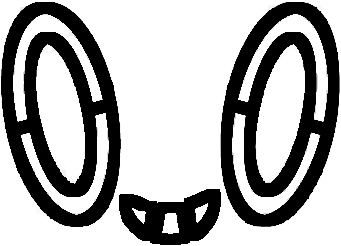
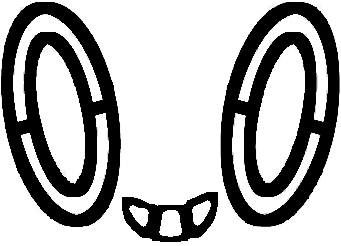
feat(ui): enlarge Rotom and restore the Compare arrows
Rotom reads small beside the other tab glyphs, and its mouth was heavier than the eyes.

Changed region(s): [[0.3519, 0.7683, 0.6452, 0.9959], [0.3812, 0.939, 0.4106, 0.9675]]

diff --git a/src/components/__tests__/navIconArt.test.ts b/src/components/__tests__/navIconArt.test.ts
@@ -16,6 +16,86 @@ async function contentFill(name: string): Promise<{ width: number; height: numbe
   };
 }
 
+/** Eyes are the two tall side shapes. The mouth is the lower center shape. */
+async function rotomParts(name: string): Promise<{
+  eyes: { pixels: number }[];
+  eyeMedianRun: number;
+  mouth: { pixels: number; medianRun: number };
+}> {
+  const { data, info } = await sharp(path.join(navDir, name))
+    .ensureAlpha()
+    .raw()
+    .toBuffer({ resolveWithObject: true });
+  const width = info.width;
+  const height = info.height;
+  const on = (x: number, y: number) => data[(y * width + x) * 4 + 3] > 40;
+  const seen = new Uint8Array(width * height);
+  const labels = new Int16Array(width * height);
+  const components: { id: number; pixels: number; minX: number; maxX: number; minY: number }[] = [];
+  for (let y = 0; y < height; y++) {
+    for (let x = 0; x < width; x++) {
+      const start = y * width + x;
+      if (!on(x, y) || seen[start]) continue;
+      const id = components.length + 1;
+      let pixels = 0;
+      let minX = x;
+      let maxX = x;
+      let minY = y;
+      const queue = [start];
+      seen[start] = 1;
+      labels[start] = id;
+      while (queue.length) {
+        const here = queue.pop()!;
+        const px = here % width;
+        const py = (here / width) | 0;
+        pixels++;
+        if (px < minX) minX = px;
+        if (px > maxX) maxX = px;
+        if (py < minY) minY = py;
+        for (const [dx, dy] of [
+          [1, 0],
+          [-1, 0],
+          [0, 1],
+          [0, -1],
+        ] as const) {
+          const nx = px + dx;
+          const ny = py + dy;
+          if (nx < 0 || ny < 0 || nx >= width || ny >= height) continue;
+          const next = ny * width + nx;
+          if (seen[next] || !on(nx, ny)) continue;
+          seen[next] = 1;
+          labels[next] = id;
+          queue.push(next);
+        }
+      }
+      components.push({ id, pixels, minX, maxX, minY });
+    }
+  }
+  const medianRun = (id: number) => {
+    const runs: number[] = [];
+    for (let y = 0; y < height; y++) {
+      let run = 0;
+      for (let x = 0; x < width; x++) {
+        if (labels[y * width + x] === id) run++;
+        else if (run > 2) {
+          runs.push(run);
+          run = 0;
+        } else run = 0;
+      }
+      if (run > 2) runs.push(run);
+    }
+    runs.sort((a, b) => a - b);
+    return runs[Math.floor(runs.length / 2)] ?? 0;
+  };
+  const eyes = components.filter((part) => part.minY < 40);
+  const mouth = components.filter((part) => part.minY >= 40).sort((a, b) => b.pixels - a.pixels)[0];
+  return {
+    eyes: eyes.map((eye) => ({ pixels: eye.pixels })),
+    eyeMedianRun: Math.min(...eyes.map((eye) => medianRun(eye.id))),
+    mouth: { pixels: mouth?.pixels ?? 0, medianRun: mouth ? medianRun(mouth.id) : 0 },
+  };
+}
+
 describe("tab silhouette art", () => {
   it("crops Lucario and Pikachu tight so they fill the slot the way Leftovers does", async () => {
     const leftovers = await contentFill("leftovers_icon_outline.png");
@@ -33,5 +113,12 @@ describe("tab silhouette art", () => {
     const face = await contentFill("rotomface_icon_outline.png");
     expect(face.width).toBeGreaterThan(0.85);
     expect(face.height).toBeGreaterThan(0.9);
+  });
+
+  it("keeps the Rotom mouth no thicker than the eyes", async () => {
+    const parts = await rotomParts("rotomface_icon_outline.png");
+    expect(parts.eyes.map((eye) => eye.pixels).sort((a, b) => a - b)).toEqual([12117, 12158]);
+    expect(parts.mouth.pixels).toBeGreaterThan(1500);
+    expect(parts.mouth.medianRun).toBeLessThanOrEqual(parts.eyeMedianRun + 2);
   });
 });

diff --git a/src/components/__tests__/tabBar.test.ts b/src/components/__tests__/tabBar.test.ts
@@ -178,7 +178,7 @@ describe("TabBar Advanced slots", () => {
     expect(html).toMatch(/aria-selected="true"[^>]*>[\s\S]*Optimize/);
   });
 
-  it("draws Lucario at 29px, Leftovers at 27px, the other silhouettes at 26px, and Compare at 23px", () => {
+  it("draws Lucario at 29px, Leftovers at 27px, Rotom at 28px, Pikachu at 26px, and Compare at 24px", () => {
     const html = renderToStaticMarkup(
       createElement(TabBar, {
         active: "optimize",
@@ -189,10 +189,9 @@ describe("TabBar Advanced slots", () => {
     );
     expect(silhouetteBox(html, "lucario_icon_outline")).toBe("h-[29px] w-[29px]");
     expect(silhouetteBox(html, "leftovers_icon_outline")).toBe("h-[27px] w-[27px]");
-    for (const file of ["rotomface_icon_outline", "pikachu_icon_outline"]) {
-      expect(silhouetteBox(html, file)).toBe("h-[26px] w-[26px]");
-    }
-    expect(html).toMatch(/<svg[^>]*class="h-\[23px\] w-\[23px\]"/);
+    expect(silhouetteBox(html, "rotomface_icon_outline")).toBe("h-[28px] w-[28px]");
+    expect(silhouetteBox(html, "pikachu_icon_outline")).toBe("h-[26px] w-[26px]");
+    expect(html).toMatch(/<svg[^>]*class="h-6 w-6"/);
     expect(
       html.match(/class="flex h-\[30px\] w-\[30px\] shrink-0 items-center justify-center"/g),
     ).toHaveLength(5);

diff --git a/src/components/shell/TabBar.tsx b/src/components/shell/TabBar.tsx
@@ -98,7 +98,7 @@ function SilhouetteIcon({ src, box = "h-[26px] w-[26px]" }: { src: string; box?:
 function CompareIcon() {
   return (
     <svg
-      className="h-[23px] w-[23px]"
+      className="h-6 w-6"
       viewBox="0 0 24 24"
       fill="none"
       stroke="currentColor"
@@ -117,7 +117,7 @@ function CompareIcon() {
 
 export const TAB_ICONS: Record<Tab, ReactNode> = {
   build: <SilhouetteIcon src={lucarioIcon} box="h-[29px] w-[29px]" />,
-  optimize: <SilhouetteIcon src={rotomFaceIcon} />,
+  optimize: <SilhouetteIcon src={rotomFaceIcon} box="h-[28px] w-[28px]" />,
   compare: <CompareIcon />,
   emblems: <SilhouetteIcon src={pikachuIcon} />,
   items: <SilhouetteIcon src={leftoversIcon} box="h-[27px] w-[27px]" />,

diff --git a/AGENTS.md b/AGENTS.md
@@ -129,7 +129,7 @@ Move Basic descriptions: `normalize.py` emits skill `description` / upgrade `des
 No router library — navigation is local React state.
 
 - **App bar** — fixed top bar (`AppBar` from `src/components/shell/`), quiet surface gradient in dark theme (`#1b1630 → #251f40` via `--color-appbar-*` tokens; light theme stays flat white), `pt-safe`. On the Builds and Optimize tabs: selected Pokémon cropped thumbnail (`iconAsset`, same crop as the picker grid), name, role badge, and attack type. Icon and name are separate tappable buttons — both open the Pokémon picker overlay. With no Pokémon selected, the leading slot shows a plus affordance (`.poke-picker-empty`, accent border and static glow); with a selection, the thumbnail uses `.poke-picker-selected` and a `--color-poke-picker-ring` border (`aria-label` **Select a Pokémon** vs **Change Pokémon**). The empty-state app-bar title reads **Select a Pokémon**; `PokemonPickerSheet` defaults its heading to **Choose a Pokémon**, and its role pill restores the last choice. When that empty Build screen is the restored tab, the shell fades in over 2s (`first-visit-fade` in `src/index.css`, class and duration from `src/ui/firstVisitFade.ts`). A saved Pokémon, any other restored tab, and reduced motion skip the fade. The class is chosen once on first paint, so choosing a Pokémon during the fade does not restart it, and picker-thumbnail warmup does not take part in that decision. On other tabs: static screen title ("Emblems", "Held Items", "Compare"). Single **Basic**/**Advanced** mode toggle (`ModeToggle` in `AppBar.tsx` — shows current mode, tap flips; color-coded via `--color-mode-*` tokens) and settings gear on all tabs. Role identity on the Build tab also comes from `ROLE_BAND` in `src/ui/theme.ts` (Hero Band surface + portrait ring; Stat Dock panel tint + ring).
-- **Tab bar** — fixed bottom navigation (`TabBar`): Builds · Items · Emblems, then Compare and Optimize. Builds, Items, Emblems, and Optimize are currentColor silhouette masks (Lucario, Leftovers, Pikachu, and a Rotom face) in `src/assets/nav/`; Compare is an unfilled stroke of the two arrows. Each glyph is centered in a shared 30px slot so the five labels share a baseline: Lucario 29px, Leftovers 27px, Pikachu and the Rotom face 26px, and the Compare arrows 23px. Idle and active ink come from `--color-tab-ink` and `--color-tab-active`. Compare and Optimize stay mounted; Basic collapses each column to flex-grow 0 (inert and clipped) and Advanced opens them to flex-grow 1. Entering Advanced, Compare's column and fade lead and Optimize follows 150ms later; leaving Advanced reverses that order. Switching from Advanced to Basic while on Compare or Optimize redirects to Builds.
+- **Tab bar** — fixed bottom navigation (`TabBar`): Builds · Items · Emblems, then Compare and Optimize. Builds, Items, Emblems, and Optimize are currentColor silhouette masks (Lucario, Leftovers, Pikachu, and a Rotom face) in `src/assets/nav/`; Compare is an unfilled stroke of the two arrows. Each glyph is centered in a shared 30px slot so the five labels share a baseline: Lucario 29px, Leftovers 27px, the Rotom face 28px, Pikachu 26px, and the Compare arrows 24px. The Rotom mouth stroke matches the eyes. Idle and active ink come from `--color-tab-ink` and `--color-tab-active`. Compare and Optimize stay mounted; Basic collapses each column to flex-grow 0 (inert and clipped) and Advanced opens them to flex-grow 1. Entering Advanced, Compare's column and fade lead and Optimize follows 150ms later; leaving Advanced reverses that order. Switching from Advanced to Basic while on Compare or Optimize redirects to Builds.
 - **Build screen** — `BuildScreen` composes `HeroBand` (role-tinted band: portrait, name/role/attack-type chips, level slider; empty state = "Choose your Pokémon" CTA; opens `PokemonPickerSheet` with local state), `RecommendPanel` (Recommended and Creative tabs; selecting a tab or variant auto-applies that preset; the last tab and variant index for the current Pokémon persist in `unite-build-optimizer.buildView.v1` and are restored when Build remounts without re-applying the preset; returns `null` when no Pokémon — HeroBand is the sole empty-state voice; phone kit stacks Final Moves, then Held Items + Battle Item, then Emblems (`BUILD_KIT_SECTION_CLASS`; `sm+` keeps Held → Moves → Battle → Emblems); kit Held Items, Battle Item, Final Moves, and Emblems open the tooltip popup on touch tap (`BUILD_KIT_TOOLTIP_TRIGGER` / `touchTrigger="tap"`; mouse hover unchanged); emblems via wrapping `EmblemCoinRow` coins plus `EmblemSetSummary` (Emblem Stats + Color Sets with `SetGlyph` chips, no CSS color dots); color identity uses mirrored `emblems/sets/<Color>.png` glyphs, no G/B/S/P grade-letter chips), `LoadoutBoard` (two default-open `CollapsibleCard`s, persistKeys `loadout-items` / `loadout-emblems`: **Items** — hint line for slot-tap (picker) and caption-tap (grade sheet); held/battle slot tiles → `PickerModal`, full-name slot captions (`{name} · {grade}`, two-line wrap) → grade `BottomSheet`; **My Builds** label + bookmark → `MyBuildsSheet` (Save/Load flash `Saved ✓` / `Loaded ✓`, highlight the row, announce via an `aria-live` status line; **Share build** uses `shareLink`; no `.json` files); **Emblems** — colored-arc `EmblemWheel` with a `?` hub chip (tap opens the Color-Set Guide; coins are `WHEEL_COIN_SIZE_PCT` of the dial so they scale on SE-class widths), action pills (**Copy emblem link** shares `#e=`; **Clear emblems**), `EquippedSets` in-game capsule rows (`EMBLEM_SET_UI_HEX` fill = count / top threshold with a 1s `motion-safe` width transition, `SetGlyph` + count, circular 2/4/6 or 3/5/7 pips; no color names; tap/click expands that color's current bonus via `equippedSetDetail` (no next-threshold line — hover tooltips are not used), and `EquippedStats` with a persisted **Flats** / **With sets** tablist (`unite-build-optimizer.equippedStats.v2` via `readEquippedStatsView`; missing or junk = Flats; With sets = `emblemDelta` + OOC extra when yellow is active; Flats = coin totals, no color-set %); filled coins open the per-emblem `BottomSheet` with grade selector + remove, empty coins open the emblem picker), `MovesCard` (Basic Attack row above Move 1 when the kit has one; hint: pick one upgrade per Move; long-press a Move to see a demonstration), `StatPanel` (Advanced-only cards in order Effective Stats, Combat Analytics, Attack Speed, then Active Effects; Effective Stats renders shared `EffectiveStatsGrid`), lazy `LevelGraph` (card title **Stats Charts**; metric pills are one unlabeled horizontal row, `aria-label="Chart metric"`, with Atk Speed immediately before Attacks/sec; percent plots append `%` on the tooltip and the Y-axis; recharts not in the initial bundle), and `StatDock` (role-tinted via `ROLE_BAND` composited over opaque `bg-surface`, fixed strip above the tab bar: HP / dynamic offense / Speed / Crit Rate with 1.5s delta flashes vs the first snapshot of the current edit window (`src/ui/statFlashes.ts`; a grade slider reports the full change, not each tick), suppressed for 800 ms after a Pokémon switch; tap opens a full-stats `BottomSheet` with `EffectiveStatsGrid`). The app-bar icon or title tap also opens `PokemonPickerSheet` (separate instance from Hero Band).
 - **Optimize screen** — `OptimizeScreen` → `EmblemOptimizer` (Advanced only; state in `useEmblemOptimizer`, presentational UI under `src/components/optimizer/`). **Search Pool** (`SearchPoolCard` — owned/full, mixed grades, grade chips on full dataset, live build counts), **Mode & Effort** (`ModeEffortCard` — maximize/target, effort, adjustable `exactCap`), stat priorities, **Color** (`ColorCard` — off/weighted/exact over stat and utility colors; Exact disabled when the pool cannot hit active color targets). `App.tsx` lazy-loads `OptimizeScreen` and defers mounting until the first Optimize tab visit (`optimizeVisited` latch); once mounted, the subtree stays in a `hidden` wrapper when another tab is active so in-flight search and result history survive tab switches. While that wrapper is hidden, `useEmblemOptimizer` keeps the last visible owned snapshot (`ownedForOptimizer`), so emblem star taps do not rebuild the search pool. When the tab is visible, each distinct color-count DP runs once per pool and target set (`cachedColorCount` in `pool.ts`). Search runs off-thread when Workers are available (`src/workers/emblemSearch.worker.ts` plus shard workers); the worker imports `candidatesToEmblemSlots` from `candidateSlots.ts` and does not pull `gameData`, zod, or IndexedDB. `SearchProgressOverlay` shows progress and ETA; its title steps one dot per second, and a Rotom gif beside the title is a black silhouette in light mode and white in dark (a still frame when reduced motion is requested). The **Results** card (`ResultCards`) lists emblem picks (wrapping `EmblemCoinRow` coins + `EmblemSetSummary`), then a Build-tab-style **Effective stats** grid (emblem-only; deltas vs no emblems) with a level preview slider, OOC move speed line, and set-bonus labels. **Clear Results** in the card header is a filled `bg-neg` button with white text (readable without hover). Apply writes emblem picks into the shared loadout via `dispatch({ type: "applyBuild", emblems })`; a link can jump to the Emblems tab for inventory edits.
 - **Emblems screen** — `EmblemsScreen` renders `InventoryManager` (per-grade ownership, search, `EmblemFilterBar` with a color row of `SetGlyph` chips and a stats row of +/− plus one stat pill, responsive emblem grid with per-grade stat subtitles; each tile wraps in `Tooltip` with `emblemTip`). Grade, color, stat, and sign restore from `unite-build-optimizer.emblemPageFilters.v1`; the name search starts empty. **Clear filters** resets color, stat, and sign. The count line names the active filter. **Share inventory link** copies an `#o=` URL. An owned-link banner (Merge / Replace mine / Dismiss) appears above the grid when `pendingOwnedImport` is set; opening a link never silently replaces the collection.
